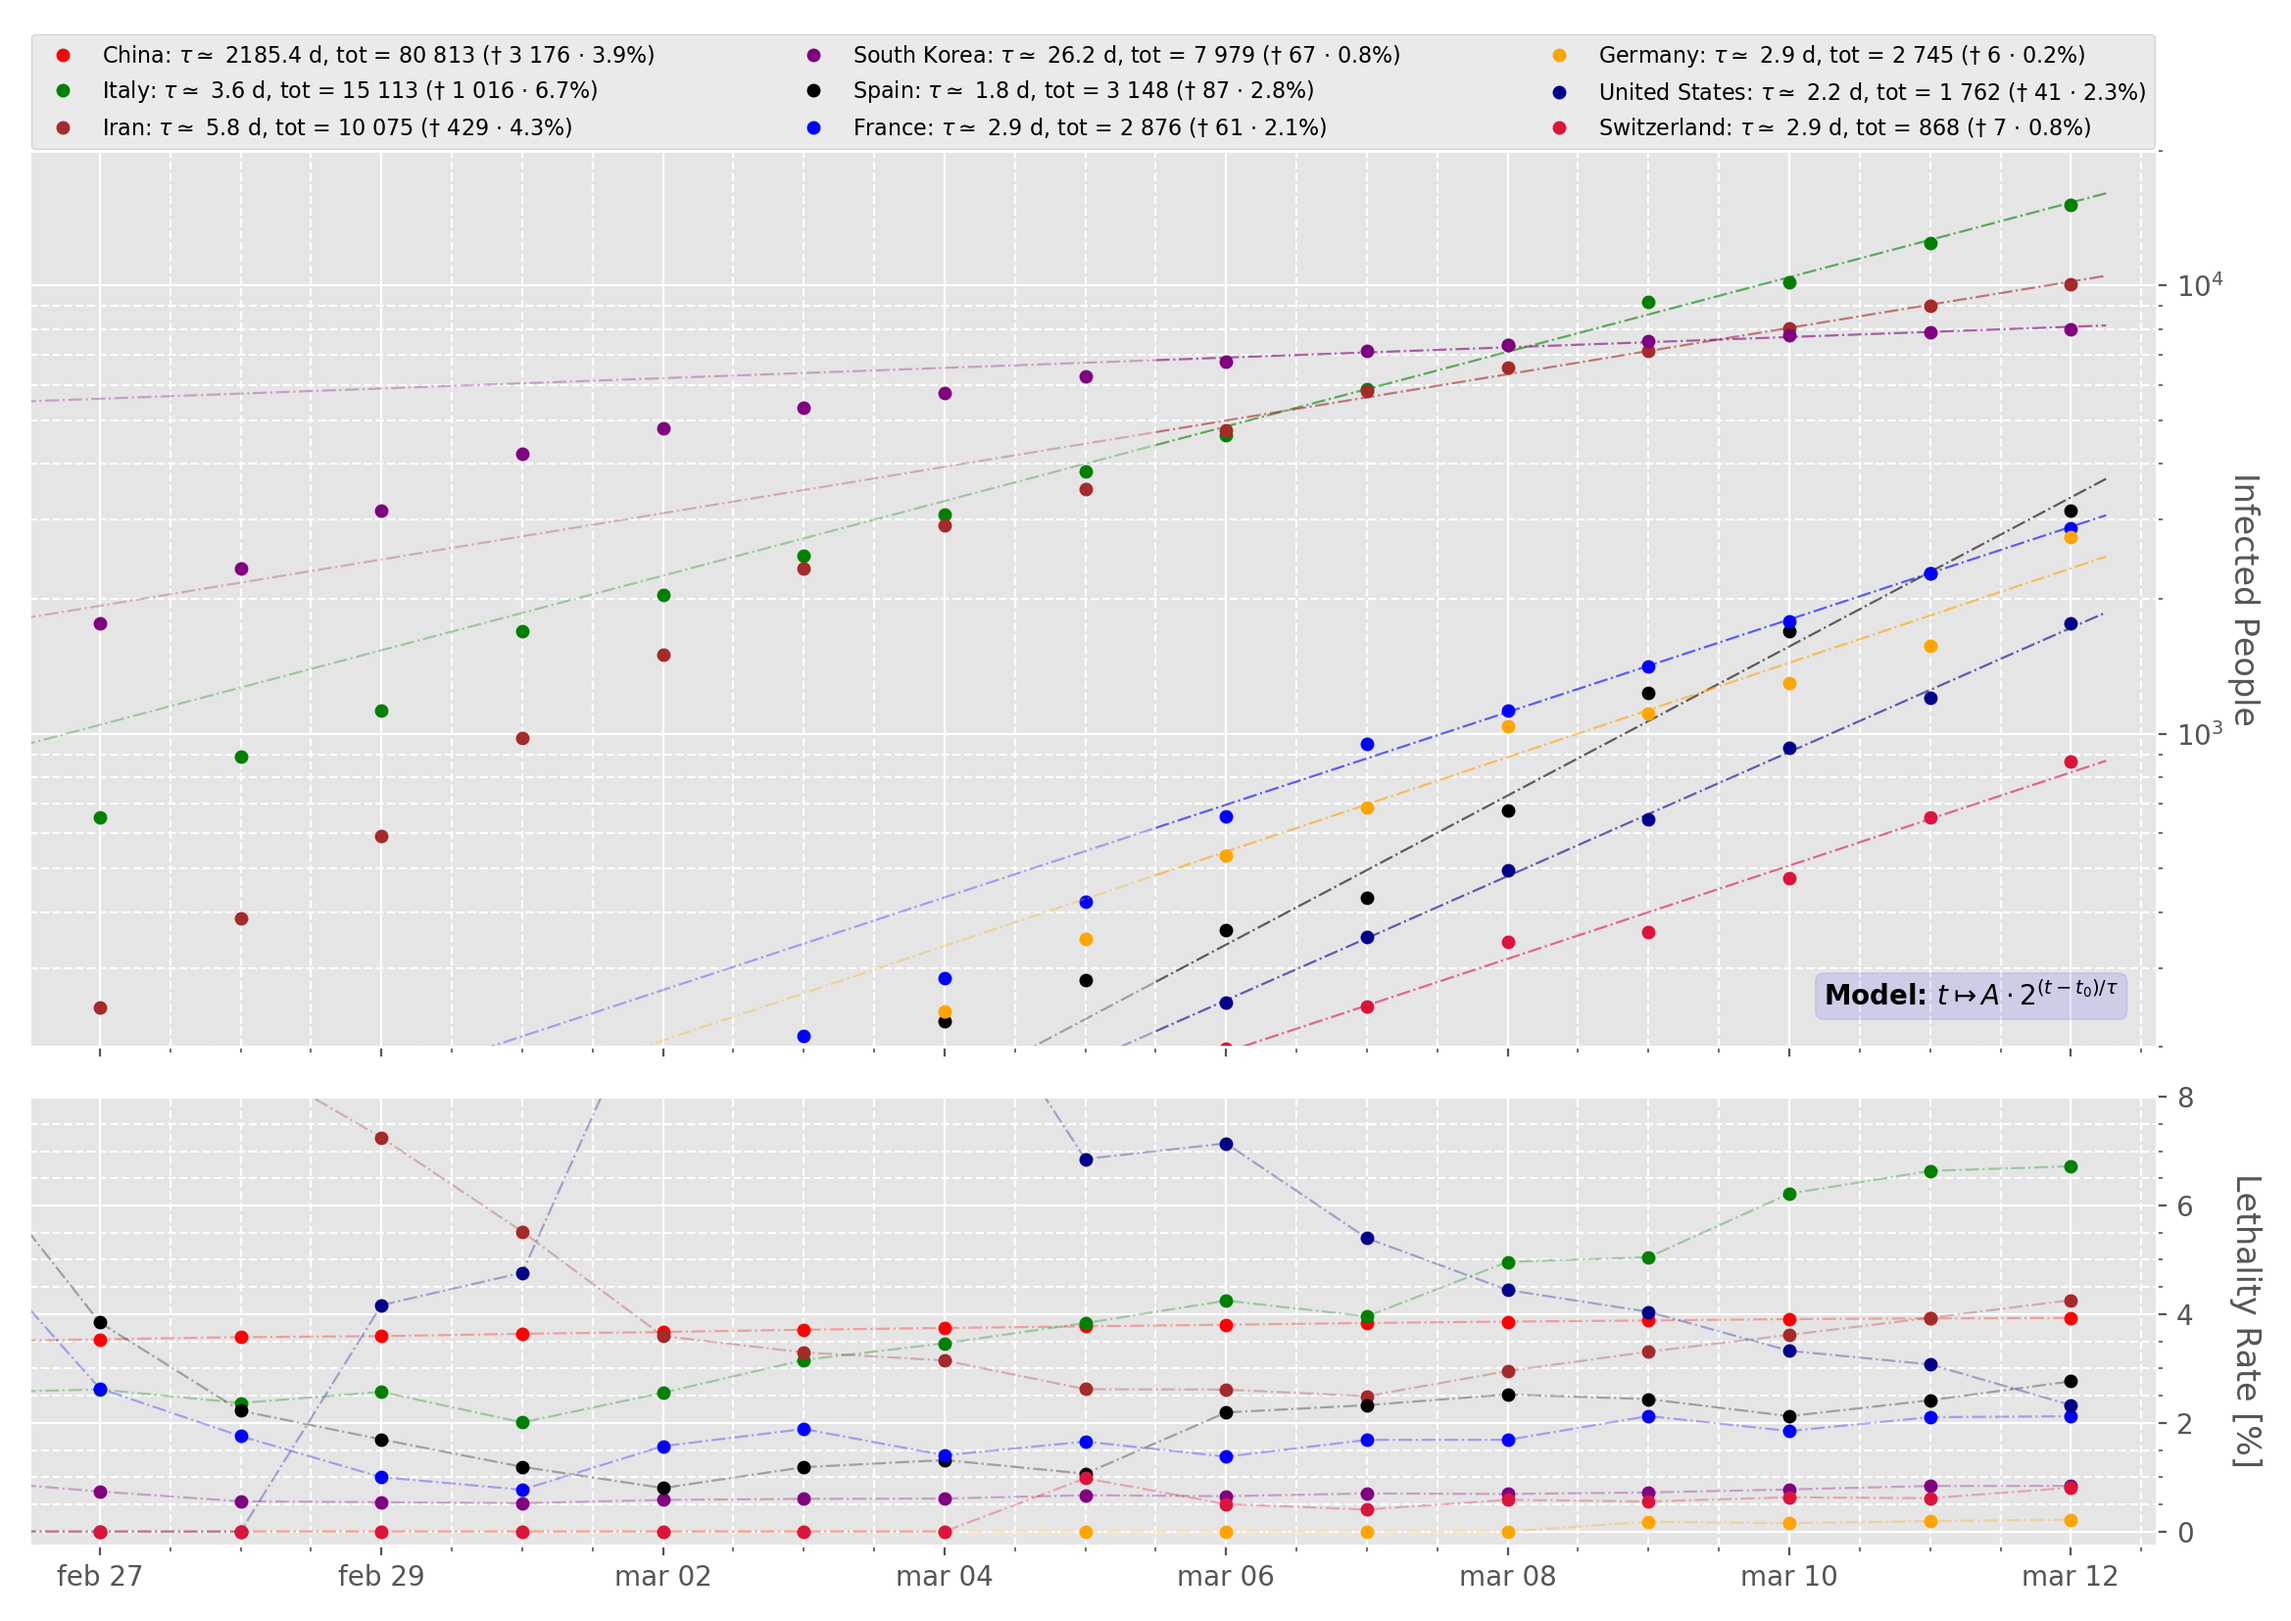
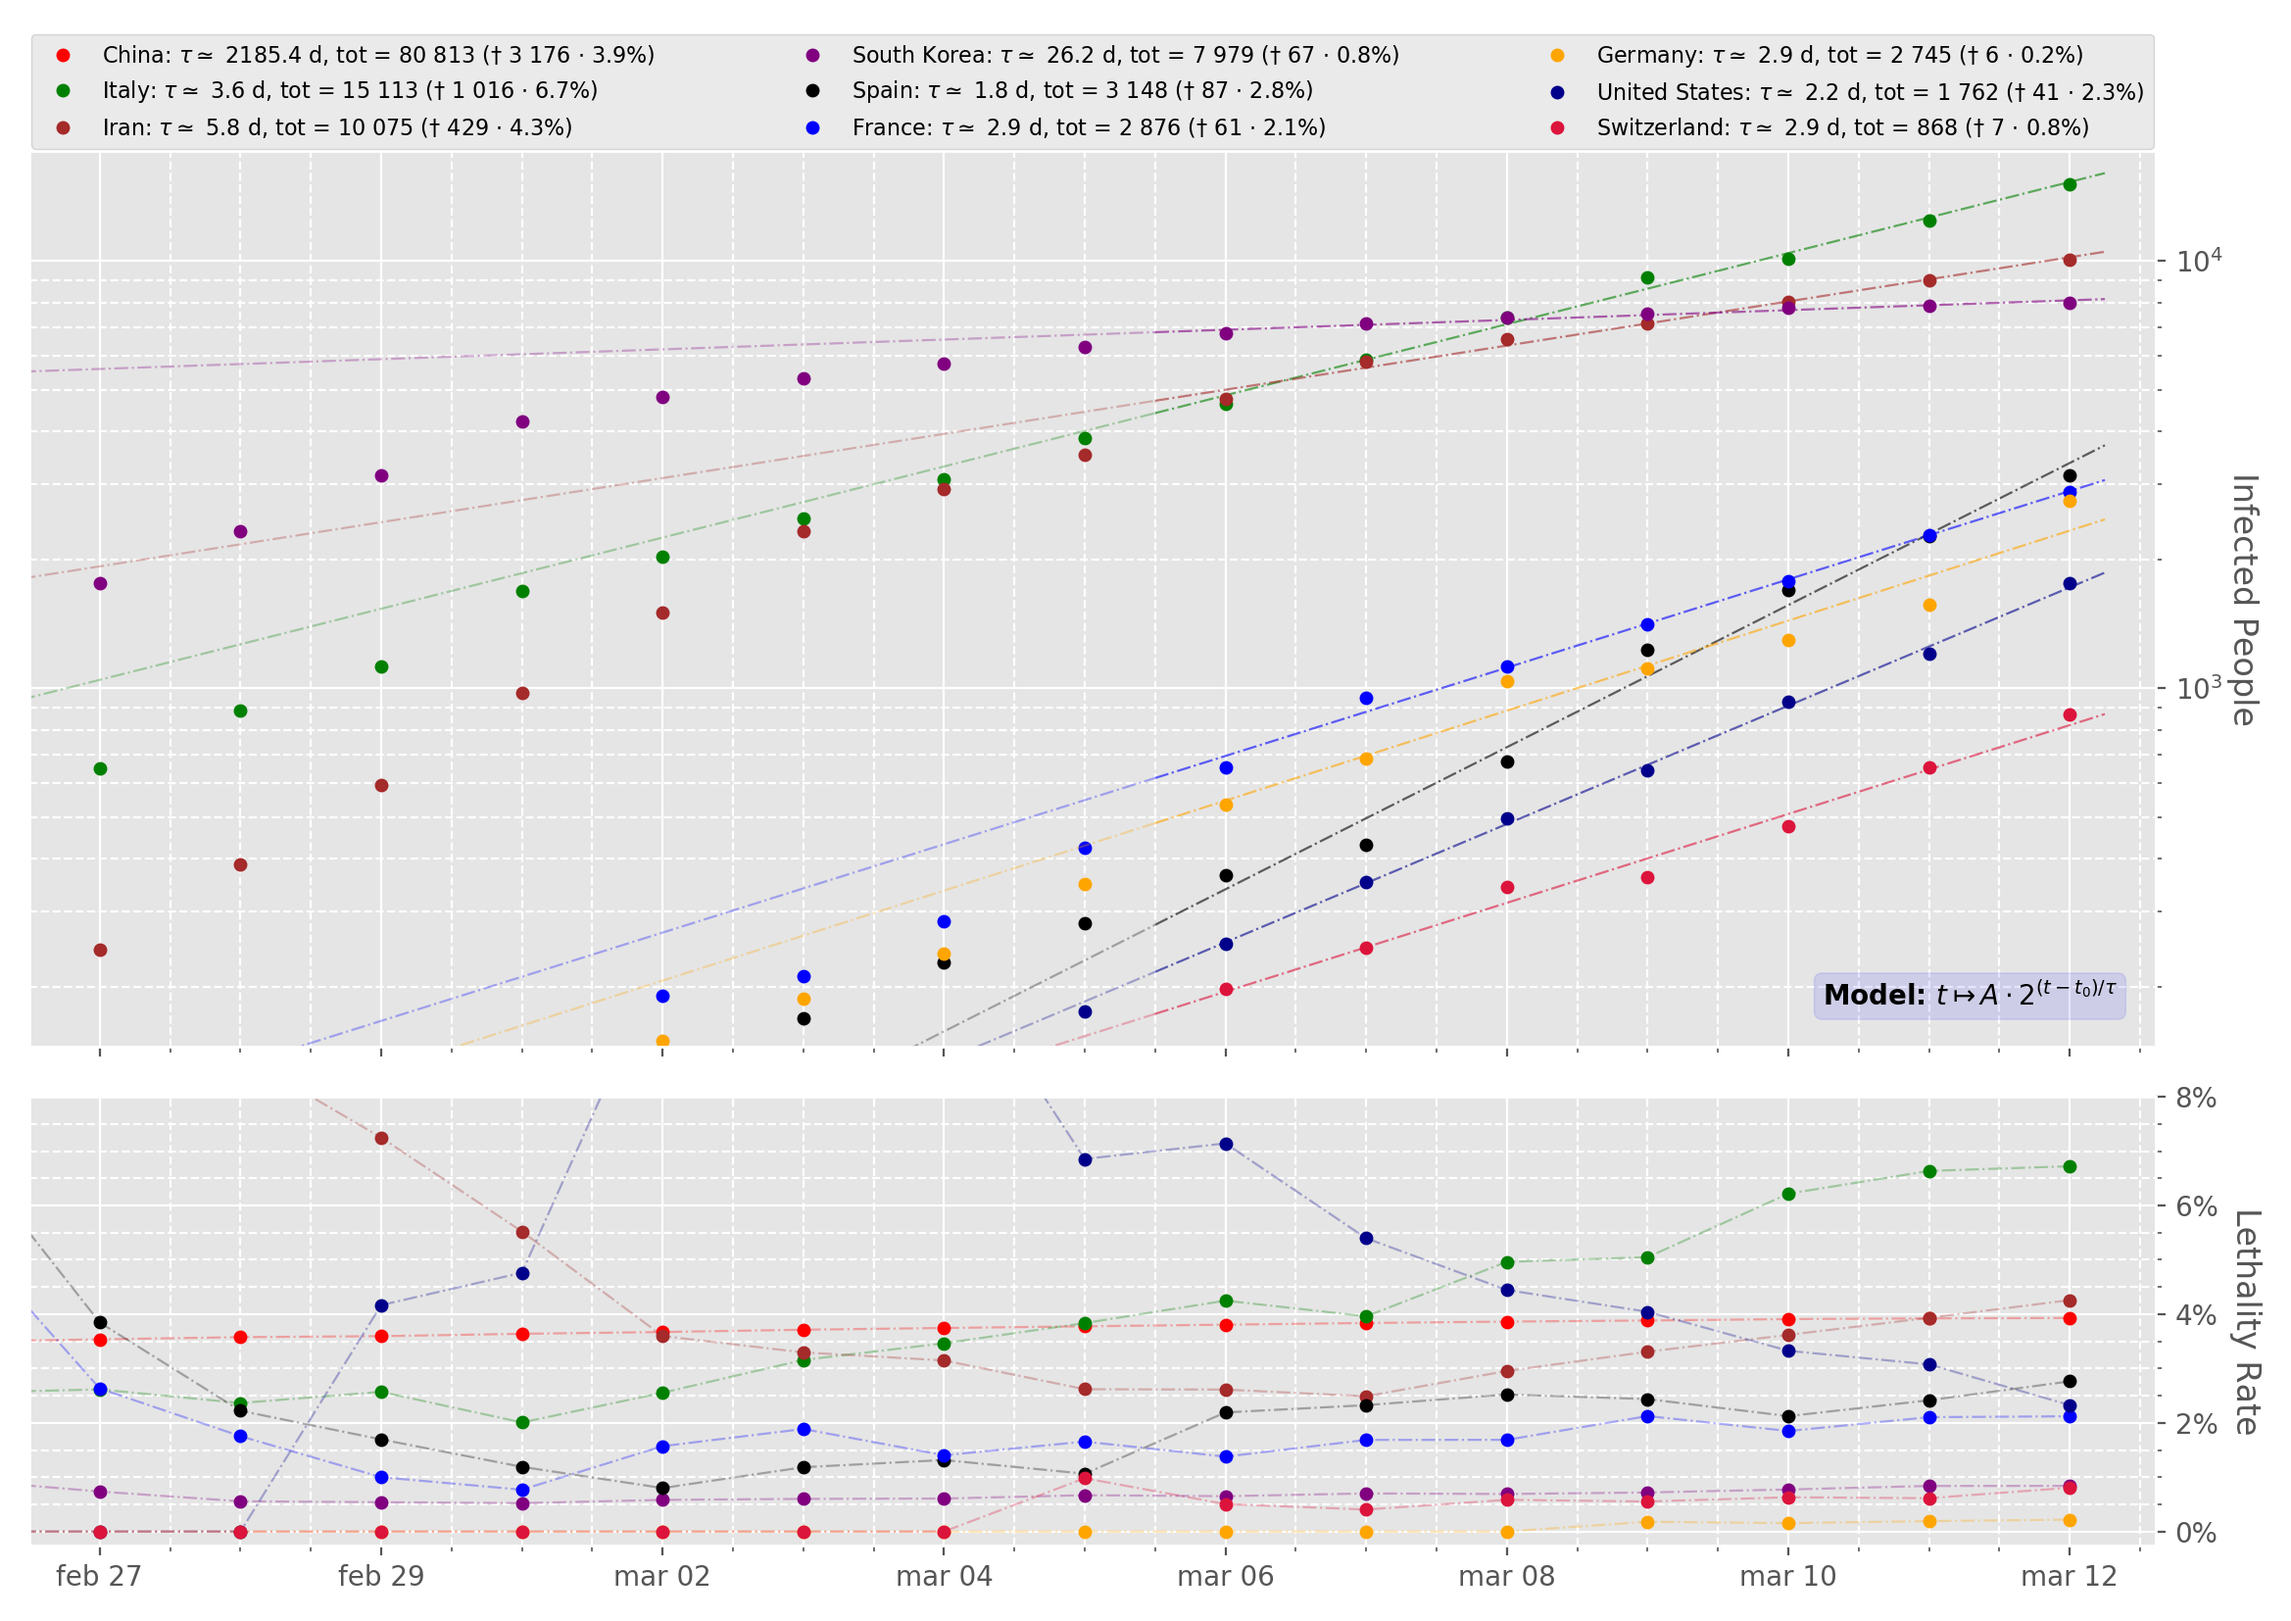
minor commit

diff --git a/Coronavirus/coronavirus.py b/Coronavirus/coronavirus.py
@@ -1,6 +1,7 @@
 import pandas as pd
 import matplotlib.pyplot as plt
 import matplotlib.dates as mdates
+import matplotlib.ticker as ticker
 import numpy as np
 import datetime
 import matplotlib.dates as mdates
@@ -116,10 +117,6 @@ for i in country_ds.index:
     ax1.plot(d2, 2**(func(t2, *param)), "-.", alpha=0.3,
              color=country_ds["color"].iloc[i], linewidth=0.8)
 
-#    ax2.plot(df.index, df["death"].values, ".",
-#             color=country_ds["color"].iloc[i], markersize=8)
-#    ax2.plot(df.index, df["death"].values, "-.",
-#             color=country_ds["color"].iloc[i], alpha=0.6, linewidth=0.8)
     df["death"].fillna(0, inplace=True)
     ax2.plot(df.index, (100*df["death"]/df["count"]).values, ".",
              color=country_ds["color"].iloc[i], markersize=8)
@@ -141,23 +138,25 @@ ax1.xaxis.set_major_locator(mdates.DayLocator(interval=2))
 ax1.xaxis.set_minor_locator(mdates.DayLocator())
 
 ax1.set_yscale("log")
-ax1.set_ylim(bottom=200)
-ax1.set_ylim(top=20000)
+ax1.set_ylim(bottom=country_ds["tot"].min()/6)
+ax1.set_ylim(top=country_ds["tot"].nlargest(2)[1]*1.2)
 ax1.yaxis.tick_right()
 ax1.set_ylabel("Infected People", rotation=270, labelpad=13)
 ax1.yaxis.set_label_position("right")
 
-#ax2.set_yscale("log")
+ax2.yaxis.set_major_locator(ticker.MultipleLocator(2))
+ax2.yaxis.set_minor_locator(ticker.MultipleLocator(.5))
+ax2.yaxis.set_major_formatter(
+    ticker.FuncFormatter(lambda y, _: "{:.0%}".format(y/100))
+)
 ax2.set_ylim((-0.25, 8))
-ax2.set_ylabel("Lethality Rate [%]", rotation=270, labelpad=25)
+ax2.set_ylabel("Lethality Rate", rotation=270, labelpad=16)
 ax2.minorticks_on()
 ax2.yaxis.tick_right()
-#ax2.set_ylabel("Dead People", rotation=270, labelpad=13)
 ax2.yaxis.set_label_position("right")
 
 ax1.legend(loc="lower left", fontsize=8, ncol=3,
            bbox_to_anchor=(-0.004, 0.99, 1.008, 0.), mode="expand")
-# ax1.legend(loc="upper left", bbox_to_anchor=(0, 0.9))
 ax1.grid(b=True, which="major", linestyle="-")
 ax1.grid(b=True, which="minor", linestyle="--")
 ax2.grid(b=True, which="major", linestyle="-")
